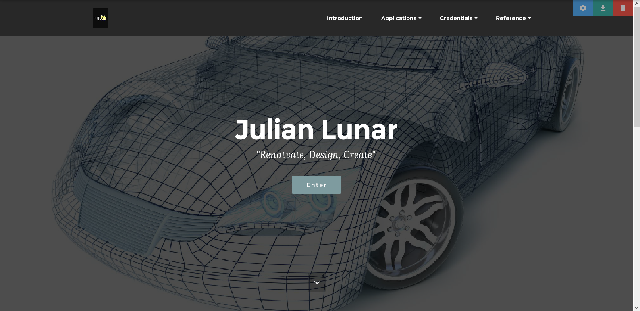
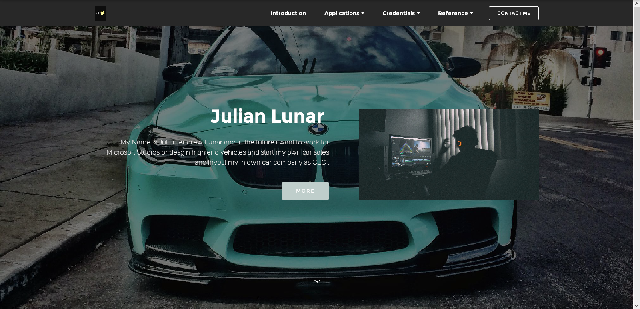
Add files via upload

diff --git a/imagne dragons.html b/imagne dragons.html
@@ -7,17 +7,16 @@
   <meta name="generator" content="Mobirise v3.11.1, mobirise.com">
   <meta name="viewport" content="width=device-width, initial-scale=1">
   <link rel="shortcut icon" href="assets/images/lit-98x128.jpg" type="image/x-icon">
-  <meta name="description" content="Site Maker Description">
-  <title>Contact Me</title>
+  <meta name="description" content="Web Generator Description">
+  <title>Imagine Dragons</title>
   <link rel="stylesheet" href="https://fonts.googleapis.com/css?family=Lora:400,700,400italic,700italic&amp;subset=latin">
   <link rel="stylesheet" href="https://fonts.googleapis.com/css?family=Montserrat:400,700">
   <link rel="stylesheet" href="https://fonts.googleapis.com/css?family=Raleway:100,100i,200,200i,300,300i,400,400i,500,500i,600,600i,700,700i,800,800i,900,900i">
   <link rel="stylesheet" href="assets/bootstrap-material-design-font/css/material.css">
   <link rel="stylesheet" href="assets/tether/tether.min.css">
   <link rel="stylesheet" href="assets/bootstrap/css/bootstrap.min.css">
-  <link rel="stylesheet" href="assets/animate.css/animate.min.css">
   <link rel="stylesheet" href="assets/dropdown/css/style.css">
-  <link rel="stylesheet" href="assets/socicon/css/styles.css">
+  <link rel="stylesheet" href="assets/animate.css/animate.min.css">
   <link rel="stylesheet" href="assets/theme/css/style.css">
   <link rel="stylesheet" href="assets/mobirise/css/mbr-additional.css" type="text/css">
   
@@ -25,7 +24,7 @@
   
 </head>
 <body>
-<section id="ext_menu-2p">
+<section id="ext_menu-2t">
 
     <nav class="navbar navbar-dropdown navbar-fixed-top">
         <div class="container">
@@ -58,80 +57,60 @@
 
 </section>
 
-<section class="engine"><a rel="external" href="https://mobirise.com">Website Creator</a></section><section class="mbr-section mbr-after-navbar" id="form1-2s" style="background-color: rgb(255, 255, 255); padding-top: 120px; padding-bottom: 120px;">
-    
-    <div class="mbr-section mbr-section__container mbr-section__container--middle">
-        <div class="container">
-            <div class="row">
-                <div class="col-xs-12 text-xs-center">
-                    <h3 class="mbr-section-title display-2">CONTACT FORM</h3>
-                    
-                </div>
-            </div>
-        </div>
-    </div>
-    <div class="mbr-section mbr-section-nopadding">
-        <div class="container">
-            <div class="row">
-                <div class="col-xs-12 col-lg-10 col-lg-offset-1" data-form-type="formoid">
+<section class="engine"><a rel="external" href="https://mobirise.com">https://mobirise.com/</a></section><section class="mbr-section mbr-after-navbar" id="msg-box4-2v" style="background-color: rgb(255, 255, 255); padding-top: 120px; padding-bottom: 120px;">
 
-
-                    <div data-form-alert="true">
-                        <div hidden="" data-form-alert-success="true" class="alert alert-form alert-success text-xs-center">Thanks for filling out form!</div>
-                    </div>
-
-
-                    <form action="https://mobirise.com/" method="post" data-form-title="CONTACT FORM">
-
[1 lines of base64/hex data omitted]
-
-                        <div class="row row-sm-offset">
-
-                            <div class="col-xs-12 col-md-4">
-                                <div class="form-group">
-                                    <label class="form-control-label" for="form1-2s-name">Name<span class="form-asterisk">*</span></label>
-                                    <input type="text" class="form-control" name="name" required="" data-form-field="Name" id="form1-2s-name">
-                                </div>
-                            </div>
-
-                            <div class="col-xs-12 col-md-4">
-                                <div class="form-group">
-                                    <label class="form-control-label" for="form1-2s-email">Email<span class="form-asterisk">*</span></label>
-                                    <input type="email" class="form-control" name="email" required="" data-form-field="Email" id="form1-2s-email">
-                                </div>
-                            </div>
-
-                            <div class="col-xs-12 col-md-4">
-                                <div class="form-group">
-                                    <label class="form-control-label" for="form1-2s-phone">Phone</label>
-                                    <input type="tel" class="form-control" name="phone" data-form-field="Phone" id="form1-2s-phone">
-                                </div>
-                            </div>
-
-                        </div>
-
-                        <div class="form-group">
-                            <label class="form-control-label" for="form1-2s-message">Message</label>
-                            <textarea class="form-control" name="message" rows="7" data-form-field="Message" id="form1-2s-message"></textarea>
-                        </div>
-
-                        <div><button type="submit" class="btn btn-info">CONTACT ME</button></div>
-
-                    </form>
-                </div>
-            </div>
-        </div>
-    </div>
-</section>
-
-<section class="mbr-section mbr-section-md-padding" id="social-buttons4-2r" style="background-color: rgb(46, 46, 46); padding-top: 30px; padding-bottom: 30px;">
     
     <div class="container">
         <div class="row">
-            <div class="col-md-8 col-md-offset-2 text-xs-center">
-                <h3 class="mbr-section-title display-2">FOLLOW ME</h3>
-                <div>   <a class="btn btn-social" title="YouTube" target="_blank" href="https://www.youtube.com/channel/UCJnx7VYNEUVOh0UpiyohfZQ"><i class="socicon socicon-youtube"></i></a>       </div>
+            <div class="mbr-table-md-up">
+
+              <div class="mbr-table-cell mbr-right-padding-md-up mbr-valign-top col-md-7 image-size" style="width: 50%;">
+                  <div class="mbr-figure"><iframe class="mbr-embedded-video" src="https://www.youtube.com/embed/Tq7p44IA-1U?rel=0&amp;amp;showinfo=0&amp;autoplay=0&amp;loop=0" width="1280" height="720" frameborder="0" allowfullscreen></iframe></div>
+              </div>
+
+              
+
+
+              <div class="mbr-table-cell col-md-5 text-xs-center text-md-left content-size">
+                  <h3 class="mbr-section-title display-2">Imagine Dragons Compition Video</h3>
+                  
+
+                  <div><a class="btn btn-info" href="https://mobirise.com">MORE</a></div>
+              </div>
+
+
+              
+
             </div>
+        </div>
+    </div>
+
+</section>
+
+<section class="mbr-section mbr-section-md-padding mbr-footer footer1" id="contacts1-2u" style="background-color: rgb(46, 46, 46); padding-top: 30px; padding-bottom: 30px;">
+    
+    <div class="container">
+        <div class="row">
+            <div class="mbr-footer-content col-xs-12 col-md-3">
+                <div><img src="assets/images/lit-128x165.jpg"></div>
+            </div>
+            <div class="mbr-footer-content col-xs-12 col-md-3">
+                <p><strong>Address</strong><br>
+1234 Street Name<br>
+City, AA 99999</p>
+            </div>
+            <div class="mbr-footer-content col-xs-12 col-md-3">
+                <p><font color="#7c7c7c" face="Montserrat, sans-serif" size="3"><span style="letter-spacing: -1px; line-height: 20px;"><strong>Contacts</strong></span></font><br>
+Email: jlunar@miamiartsstudio.com<br>
+Phone: (305)-922-6533<br><br></p>
+            </div>
+            <div class="mbr-footer-content col-xs-12 col-md-3">
+                <p><strong>Links</strong><br>
+<a class="text-white" href="https://mobirise.com/">Website builder</a><br>
+<a class="text-white" href="https://mobirise.com/mobirise-free-win.zip">Download for Windows</a><br>
+<a class="text-white" href="https://mobirise.com/mobirise-free-mac.zip">Download for Mac</a></p>
+            </div>
+
         </div>
     </div>
 </section>
@@ -141,11 +120,10 @@
   <script src="assets/tether/tether.min.js"></script>
   <script src="assets/bootstrap/js/bootstrap.min.js"></script>
   <script src="assets/smooth-scroll/SmoothScroll.js"></script>
-  <script src="assets/viewportChecker/jquery.viewportchecker.js"></script>
   <script src="assets/dropdown/js/script.min.js"></script>
   <script src="assets/touchSwipe/jquery.touchSwipe.min.js"></script>
+  <script src="assets/viewportChecker/jquery.viewportchecker.js"></script>
   <script src="assets/theme/js/script.js"></script>
-  <script src="assets/formoid/formoid.min.js"></script>
   
   
   <input name="animation" type="hidden">

diff --git a/introduction.html b/introduction.html
@@ -46,7 +46,7 @@
                         <div class="hamburger-icon"></div>
                     </button>
 
-                    <ul class="nav-dropdown collapse pull-xs-right nav navbar-nav navbar-toggleable-sm" id="exCollapsingNavbar"><li class="nav-item dropdown"><a class="nav-link link" href="index.html" aria-expanded="false" target="_blank">Introduction</a></li><li class="nav-item dropdown"><a class="nav-link link dropdown-toggle" href="https://mobirise.com/" data-toggle="dropdown-submenu" aria-expanded="false">Applications</a><div class="dropdown-menu"><div class="dropdown"><a class="dropdown-item dropdown-toggle" href="photoshop.html" aria-expanded="false" data-toggle="dropdown-submenu">Adobe Photoshop</a><div class="dropdown-menu dropdown-submenu"><a class="dropdown-item" href="masterpiece.html">Masterpiece</a></div></div><a class="dropdown-item" href="illustrator.html" aria-expanded="false">Adobe Illustrator</a><a class="dropdown-item" href="#" aria-expanded="false">Adobe Premier</a><a class="dropdown-item" href="#" aria-expanded="false">Adobe Animte</a><div class="dropdown"><a class="dropdown-item dropdown-toggle" href="#" data-toggle="dropdown-submenu" aria-expanded="false">MIcrosoft Office</a><div class="dropdown-menu dropdown-submenu"><a class="dropdown-item" href="#">PowerPoint</a><div class="dropdown"><a class="dropdown-item dropdown-toggle" href="#" data-toggle="dropdown-submenu" aria-expanded="false">Word</a><div class="dropdown-menu dropdown-submenu"><a class="dropdown-item" href="https://julianlunar.github.io/Julian Lunar Discuss IT Topic 6.pdf" target="_blank">Disscuss It 6<br></a></div></div><a class="dropdown-item" href="#">Exel</a><a class="dropdown-item" href="#"></a></div></div></div></li><li class="nav-item dropdown"><a class="nav-link link dropdown-toggle" href="https://mobirise.com/" data-toggle="dropdown-submenu" aria-expanded="false">Credentials</a><div class="dropdown-menu"><a class="dropdown-item" href="#">IC3</a><a class="dropdown-item" href="#">Adobe Illustrator</a><a class="dropdown-item" href="#">Adobe Photoshop</a><a class="dropdown-item" href="#">Gmetrix</a></div></li><li class="nav-item dropdown"><a class="nav-link link dropdown-toggle" href="https://mobirise.com/" data-toggle="dropdown-submenu" aria-expanded="false">Reference</a><div class="dropdown-menu"><a class="dropdown-item" href="#">Teachers</a></div></li><li class="nav-item nav-btn"><a class="nav-link btn btn-white-outline btn-white" href="conatct page.html" target="_blank">CONTACT ME</a></li></ul>
+                    <ul class="nav-dropdown collapse pull-xs-right nav navbar-nav navbar-toggleable-sm" id="exCollapsingNavbar"><li class="nav-item dropdown"><a class="nav-link link" href="index.html" aria-expanded="false" target="_blank">Introduction</a></li><li class="nav-item dropdown open"><a class="nav-link link dropdown-toggle" href="https://mobirise.com/" data-toggle="dropdown-submenu" aria-expanded="true">Applications</a><div class="dropdown-menu"><div class="dropdown"><a class="dropdown-item dropdown-toggle" href="photoshop.html" aria-expanded="false" data-toggle="dropdown-submenu">Adobe Photoshop</a><div class="dropdown-menu dropdown-submenu"><a class="dropdown-item" href="masterpiece.html">Masterpiece</a></div></div><a class="dropdown-item" href="illustrator.html" aria-expanded="false">Adobe Illustrator</a><div class="dropdown open"><a class="dropdown-item dropdown-toggle" href="#" aria-expanded="true" data-toggle="dropdown-submenu">Adobe Premier</a><div class="dropdown-menu dropdown-submenu"><a class="dropdown-item" href="imagne dragons.html">Imagine Dragons</a></div></div><a class="dropdown-item" href="#" aria-expanded="false">Adobe Animte</a><div class="dropdown"><a class="dropdown-item dropdown-toggle" href="#" data-toggle="dropdown-submenu" aria-expanded="false">MIcrosoft Office</a><div class="dropdown-menu dropdown-submenu"><a class="dropdown-item" href="#">PowerPoint</a><div class="dropdown"><a class="dropdown-item dropdown-toggle" href="#" data-toggle="dropdown-submenu" aria-expanded="false">Word</a><div class="dropdown-menu dropdown-submenu"><a class="dropdown-item" href="https://julianlunar.github.io/Julian Lunar Discuss IT Topic 6.pdf" target="_blank">Disscuss It 6<br></a></div></div><a class="dropdown-item" href="#">Exel</a><a class="dropdown-item" href="#"></a></div></div></div></li><li class="nav-item dropdown"><a class="nav-link link dropdown-toggle" href="https://mobirise.com/" data-toggle="dropdown-submenu" aria-expanded="false">Credentials</a><div class="dropdown-menu"><a class="dropdown-item" href="#">IC3</a><a class="dropdown-item" href="#">Adobe Illustrator</a><a class="dropdown-item" href="#">Adobe Photoshop</a><a class="dropdown-item" href="#">Gmetrix</a></div></li><li class="nav-item dropdown"><a class="nav-link link dropdown-toggle" href="https://mobirise.com/" data-toggle="dropdown-submenu" aria-expanded="false">Reference</a><div class="dropdown-menu"><a class="dropdown-item" href="#">Teachers</a></div></li><li class="nav-item nav-btn"><a class="nav-link btn btn-white-outline btn-white" href="conatct page.html" target="_blank">CONTACT ME</a></li></ul>
                     <button hidden="" class="navbar-toggler navbar-close" type="button" data-toggle="collapse" data-target="#exCollapsingNavbar">
                         <div class="close-icon"></div>
                     </button>
@@ -59,7 +59,7 @@
 
 </section>
 
-<section class="engine"><a rel="external" href="https://mobirise.com">Web Maker</a></section><section class="mbr-section mbr-section-hero mbr-section-full header2 mbr-parallax-background mbr-after-navbar" id="header2-1o" style="background-image: url(assets/images/rdb-la-squeezed-660-hp-from-this-wicked-bmw-m5-photo-gallery-2000x2000.jpg);">
+<section class="engine"><a rel="external" href="https://mobirise.com">Website Maker</a></section><section class="mbr-section mbr-section-hero mbr-section-full header2 mbr-parallax-background mbr-after-navbar" id="header2-1o" style="background-image: url(assets/images/rdb-la-squeezed-660-hp-from-this-wicked-bmw-m5-photo-gallery-2000x2000.jpg);">
 
     <div class="mbr-overlay" style="opacity: 0.5; background-color: rgb(0, 0, 0);">
     </div>
@@ -86,7 +86,7 @@
 
                         </div>
                         <div class="mbr-table-cell mbr-valign-top mbr-left-padding-md-up col-md-7 image-size" style="width: 46%;">
-                            <div class="mbr-figure"><img src="assets/images/coworkers.jpg"></div>
+                            <div class="mbr-figure"><img src="assets/images/mbr-1400x708.jpg"></div>
                         </div>
 
                     </div>

diff --git a/masterpiece.html b/masterpiece.html
@@ -44,7 +44,7 @@
                         <div class="hamburger-icon"></div>
                     </button>
 
-                    <ul class="nav-dropdown collapse pull-xs-right nav navbar-nav navbar-toggleable-sm" id="exCollapsingNavbar"><li class="nav-item dropdown"><a class="nav-link link" href="index.html" aria-expanded="false" target="_blank">Introduction</a></li><li class="nav-item dropdown"><a class="nav-link link dropdown-toggle" href="https://mobirise.com/" data-toggle="dropdown-submenu" aria-expanded="false">Applications</a><div class="dropdown-menu"><div class="dropdown"><a class="dropdown-item dropdown-toggle" href="photoshop.html" aria-expanded="false" data-toggle="dropdown-submenu">Adobe Photoshop</a><div class="dropdown-menu dropdown-submenu"><a class="dropdown-item" href="masterpiece.html">Masterpiece</a></div></div><a class="dropdown-item" href="illustrator.html" aria-expanded="false">Adobe Illustrator</a><a class="dropdown-item" href="#" aria-expanded="false">Adobe Premier</a><a class="dropdown-item" href="#" aria-expanded="false">Adobe Animte</a><div class="dropdown"><a class="dropdown-item dropdown-toggle" href="#" data-toggle="dropdown-submenu" aria-expanded="false">MIcrosoft Office</a><div class="dropdown-menu dropdown-submenu"><a class="dropdown-item" href="#">PowerPoint</a><div class="dropdown"><a class="dropdown-item dropdown-toggle" href="#" data-toggle="dropdown-submenu" aria-expanded="false">Word</a><div class="dropdown-menu dropdown-submenu"><a class="dropdown-item" href="https://julianlunar.github.io/Julian Lunar Discuss IT Topic 6.pdf" target="_blank">Disscuss It 6<br></a></div></div><a class="dropdown-item" href="#">Exel</a><a class="dropdown-item" href="#"></a></div></div></div></li><li class="nav-item dropdown"><a class="nav-link link dropdown-toggle" href="https://mobirise.com/" data-toggle="dropdown-submenu" aria-expanded="false">Credentials</a><div class="dropdown-menu"><a class="dropdown-item" href="#">IC3</a><a class="dropdown-item" href="#">Adobe Illustrator</a><a class="dropdown-item" href="#">Adobe Photoshop</a><a class="dropdown-item" href="#">Gmetrix</a></div></li><li class="nav-item dropdown"><a class="nav-link link dropdown-toggle" href="https://mobirise.com/" data-toggle="dropdown-submenu" aria-expanded="false">Reference</a><div class="dropdown-menu"><a class="dropdown-item" href="#">Teachers</a></div></li><li class="nav-item nav-btn"><a class="nav-link btn btn-white-outline btn-white" href="conatct page.html" target="_blank">CONTACT ME</a></li></ul>
+                    <ul class="nav-dropdown collapse pull-xs-right nav navbar-nav navbar-toggleable-sm" id="exCollapsingNavbar"><li class="nav-item dropdown"><a class="nav-link link" href="index.html" aria-expanded="false" target="_blank">Introduction</a></li><li class="nav-item dropdown open"><a class="nav-link link dropdown-toggle" href="https://mobirise.com/" data-toggle="dropdown-submenu" aria-expanded="true">Applications</a><div class="dropdown-menu"><div class="dropdown"><a class="dropdown-item dropdown-toggle" href="photoshop.html" aria-expanded="false" data-toggle="dropdown-submenu">Adobe Photoshop</a><div class="dropdown-menu dropdown-submenu"><a class="dropdown-item" href="masterpiece.html">Masterpiece</a></div></div><a class="dropdown-item" href="illustrator.html" aria-expanded="false">Adobe Illustrator</a><div class="dropdown open"><a class="dropdown-item dropdown-toggle" href="#" aria-expanded="true" data-toggle="dropdown-submenu">Adobe Premier</a><div class="dropdown-menu dropdown-submenu"><a class="dropdown-item" href="imagne dragons.html">Imagine Dragons</a></div></div><a class="dropdown-item" href="#" aria-expanded="false">Adobe Animte</a><div class="dropdown"><a class="dropdown-item dropdown-toggle" href="#" data-toggle="dropdown-submenu" aria-expanded="false">MIcrosoft Office</a><div class="dropdown-menu dropdown-submenu"><a class="dropdown-item" href="#">PowerPoint</a><div class="dropdown"><a class="dropdown-item dropdown-toggle" href="#" data-toggle="dropdown-submenu" aria-expanded="false">Word</a><div class="dropdown-menu dropdown-submenu"><a class="dropdown-item" href="https://julianlunar.github.io/Julian Lunar Discuss IT Topic 6.pdf" target="_blank">Disscuss It 6<br></a></div></div><a class="dropdown-item" href="#">Exel</a><a class="dropdown-item" href="#"></a></div></div></div></li><li class="nav-item dropdown"><a class="nav-link link dropdown-toggle" href="https://mobirise.com/" data-toggle="dropdown-submenu" aria-expanded="false">Credentials</a><div class="dropdown-menu"><a class="dropdown-item" href="#">IC3</a><a class="dropdown-item" href="#">Adobe Illustrator</a><a class="dropdown-item" href="#">Adobe Photoshop</a><a class="dropdown-item" href="#">Gmetrix</a></div></li><li class="nav-item dropdown"><a class="nav-link link dropdown-toggle" href="https://mobirise.com/" data-toggle="dropdown-submenu" aria-expanded="false">Reference</a><div class="dropdown-menu"><a class="dropdown-item" href="#">Teachers</a></div></li><li class="nav-item nav-btn"><a class="nav-link btn btn-white-outline btn-white" href="conatct page.html" target="_blank">CONTACT ME</a></li></ul>
                     <button hidden="" class="navbar-toggler navbar-close" type="button" data-toggle="collapse" data-target="#exCollapsingNavbar">
                         <div class="close-icon"></div>
                     </button>
@@ -57,7 +57,7 @@
 
 </section>
 
-<section class="engine"><a rel="external" href="https://mobirise.com">https://mobirise.com/</a></section><section class="mbr-slider mbr-section mbr-section__container carousel slide mbr-section-nopadding mbr-after-navbar" data-ride="carousel" data-keyboard="false" data-wrap="true" data-pause="false" data-interval="5000" id="slider3-2a" style="background-color: rgb(0, 0, 0);">
+<section class="engine"><a rel="external" href="https://mobirise.com">Mobirise Website Creator</a></section><section class="mbr-slider mbr-section mbr-section__container carousel slide mbr-section-nopadding mbr-after-navbar" data-ride="carousel" data-keyboard="false" data-wrap="true" data-pause="false" data-interval="5000" id="slider3-2a" style="background-color: rgb(0, 0, 0);">
     <div class=" container boxed-slider" style="padding-top: 120px; padding-bottom: 120px;">
         <div>
             <div>

diff --git a/index.html b/index.html
@@ -47,7 +47,7 @@
                         <div class="hamburger-icon"></div>
                     </button>
 
-                    <ul class="nav-dropdown collapse pull-xs-right nav navbar-nav navbar-toggleable-sm" id="exCollapsingNavbar"><li class="nav-item dropdown"><a class="nav-link link" href="index.html" aria-expanded="false" target="_blank">Introduction</a></li><li class="nav-item dropdown"><a class="nav-link link dropdown-toggle" href="https://mobirise.com/" data-toggle="dropdown-submenu" aria-expanded="false">Applications</a><div class="dropdown-menu"><div class="dropdown"><a class="dropdown-item dropdown-toggle" href="photoshop.html" aria-expanded="false" data-toggle="dropdown-submenu">Adobe Photoshop</a><div class="dropdown-menu dropdown-submenu"><a class="dropdown-item" href="masterpiece.html">Masterpiece</a></div></div><a class="dropdown-item" href="illustrator.html" aria-expanded="false">Adobe Illustrator</a><a class="dropdown-item" href="#" aria-expanded="false">Adobe Premier</a><a class="dropdown-item" href="#" aria-expanded="false">Adobe Animte</a><div class="dropdown"><a class="dropdown-item dropdown-toggle" href="#" data-toggle="dropdown-submenu" aria-expanded="false">MIcrosoft Office</a><div class="dropdown-menu dropdown-submenu"><a class="dropdown-item" href="#">PowerPoint</a><div class="dropdown"><a class="dropdown-item dropdown-toggle" href="#" data-toggle="dropdown-submenu" aria-expanded="false">Word</a><div class="dropdown-menu dropdown-submenu"><a class="dropdown-item" href="https://julianlunar.github.io/Julian Lunar Discuss IT Topic 6.pdf" target="_blank">Disscuss It 6<br></a></div></div><a class="dropdown-item" href="#">Exel</a><a class="dropdown-item" href="#"></a></div></div></div></li><li class="nav-item dropdown"><a class="nav-link link dropdown-toggle" href="https://mobirise.com/" data-toggle="dropdown-submenu" aria-expanded="false">Credentials</a><div class="dropdown-menu"><a class="dropdown-item" href="#">IC3</a><a class="dropdown-item" href="#">Adobe Illustrator</a><a class="dropdown-item" href="#">Adobe Photoshop</a><a class="dropdown-item" href="#">Gmetrix</a></div></li><li class="nav-item dropdown"><a class="nav-link link dropdown-toggle" href="https://mobirise.com/" data-toggle="dropdown-submenu" aria-expanded="false">Reference</a><div class="dropdown-menu"><a class="dropdown-item" href="#">Teachers</a></div></li><li class="nav-item nav-btn"><a class="nav-link btn btn-white-outline btn-white" href="conatct page.html" target="_blank">CONTACT ME</a></li></ul>
+                    <ul class="nav-dropdown collapse pull-xs-right nav navbar-nav navbar-toggleable-sm" id="exCollapsingNavbar"><li class="nav-item dropdown"><a class="nav-link link" href="index.html" aria-expanded="false" target="_blank">Introduction</a></li><li class="nav-item dropdown open"><a class="nav-link link dropdown-toggle" href="https://mobirise.com/" data-toggle="dropdown-submenu" aria-expanded="true">Applications</a><div class="dropdown-menu"><div class="dropdown"><a class="dropdown-item dropdown-toggle" href="photoshop.html" aria-expanded="false" data-toggle="dropdown-submenu">Adobe Photoshop</a><div class="dropdown-menu dropdown-submenu"><a class="dropdown-item" href="masterpiece.html">Masterpiece</a></div></div><a class="dropdown-item" href="illustrator.html" aria-expanded="false">Adobe Illustrator</a><div class="dropdown open"><a class="dropdown-item dropdown-toggle" href="#" aria-expanded="true" data-toggle="dropdown-submenu">Adobe Premier</a><div class="dropdown-menu dropdown-submenu"><a class="dropdown-item" href="imagne dragons.html">Imagine Dragons</a></div></div><a class="dropdown-item" href="#" aria-expanded="false">Adobe Animte</a><div class="dropdown"><a class="dropdown-item dropdown-toggle" href="#" data-toggle="dropdown-submenu" aria-expanded="false">MIcrosoft Office</a><div class="dropdown-menu dropdown-submenu"><a class="dropdown-item" href="#">PowerPoint</a><div class="dropdown"><a class="dropdown-item dropdown-toggle" href="#" data-toggle="dropdown-submenu" aria-expanded="false">Word</a><div class="dropdown-menu dropdown-submenu"><a class="dropdown-item" href="https://julianlunar.github.io/Julian Lunar Discuss IT Topic 6.pdf" target="_blank">Disscuss It 6<br></a></div></div><a class="dropdown-item" href="#">Exel</a><a class="dropdown-item" href="#"></a></div></div></div></li><li class="nav-item dropdown"><a class="nav-link link dropdown-toggle" href="https://mobirise.com/" data-toggle="dropdown-submenu" aria-expanded="false">Credentials</a><div class="dropdown-menu"><a class="dropdown-item" href="#">IC3</a><a class="dropdown-item" href="#">Adobe Illustrator</a><a class="dropdown-item" href="#">Adobe Photoshop</a><a class="dropdown-item" href="#">Gmetrix</a></div></li><li class="nav-item dropdown"><a class="nav-link link dropdown-toggle" href="https://mobirise.com/" data-toggle="dropdown-submenu" aria-expanded="false">Reference</a><div class="dropdown-menu"><a class="dropdown-item" href="#">Teachers</a></div></li><li class="nav-item nav-btn"><a class="nav-link btn btn-white-outline btn-white" href="conatct page.html" target="_blank">CONTACT ME</a></li></ul>
                     <button hidden="" class="navbar-toggler navbar-close" type="button" data-toggle="collapse" data-target="#exCollapsingNavbar">
                         <div class="close-icon"></div>
                     </button>
@@ -60,7 +60,7 @@
 
 </section>
 
-<section class="engine"><a rel="external" href="https://mobirise.com">Website Builder</a></section><section class="mbr-section mbr-section-hero mbr-section-full mbr-parallax-background mbr-section-with-arrow mbr-after-navbar" id="header1-2b" style="background-image: url(assets/images/cars-of-tmw-2000x1332.jpg);">
+<section class="engine"><a rel="external" href="https://mobirise.com">Mobirise</a></section><section class="mbr-section mbr-section-hero mbr-section-full mbr-parallax-background mbr-section-with-arrow mbr-after-navbar" id="header1-2b" style="background-image: url(assets/images/cars-of-tmw-2000x1332.jpg);">
 
     <div class="mbr-overlay" style="opacity: 0.7; background-color: rgb(0, 0, 0);"></div>
 

diff --git a/illustrator.html b/illustrator.html
@@ -46,7 +46,7 @@
                         <div class="hamburger-icon"></div>
                     </button>
 
-                    <ul class="nav-dropdown collapse pull-xs-right nav navbar-nav navbar-toggleable-sm" id="exCollapsingNavbar"><li class="nav-item dropdown"><a class="nav-link link" href="index.html" aria-expanded="false" target="_blank">Introduction</a></li><li class="nav-item dropdown"><a class="nav-link link dropdown-toggle" href="https://mobirise.com/" data-toggle="dropdown-submenu" aria-expanded="false">Applications</a><div class="dropdown-menu"><div class="dropdown"><a class="dropdown-item dropdown-toggle" href="photoshop.html" aria-expanded="false" data-toggle="dropdown-submenu">Adobe Photoshop</a><div class="dropdown-menu dropdown-submenu"><a class="dropdown-item" href="masterpiece.html">Masterpiece</a></div></div><a class="dropdown-item" href="illustrator.html" aria-expanded="false">Adobe Illustrator</a><a class="dropdown-item" href="#" aria-expanded="false">Adobe Premier</a><a class="dropdown-item" href="#" aria-expanded="false">Adobe Animte</a><div class="dropdown"><a class="dropdown-item dropdown-toggle" href="#" data-toggle="dropdown-submenu" aria-expanded="false">MIcrosoft Office</a><div class="dropdown-menu dropdown-submenu"><a class="dropdown-item" href="#">PowerPoint</a><div class="dropdown"><a class="dropdown-item dropdown-toggle" href="#" data-toggle="dropdown-submenu" aria-expanded="false">Word</a><div class="dropdown-menu dropdown-submenu"><a class="dropdown-item" href="https://julianlunar.github.io/Julian Lunar Discuss IT Topic 6.pdf" target="_blank">Disscuss It 6<br></a></div></div><a class="dropdown-item" href="#">Exel</a><a class="dropdown-item" href="#"></a></div></div></div></li><li class="nav-item dropdown"><a class="nav-link link dropdown-toggle" href="https://mobirise.com/" data-toggle="dropdown-submenu" aria-expanded="false">Credentials</a><div class="dropdown-menu"><a class="dropdown-item" href="#">IC3</a><a class="dropdown-item" href="#">Adobe Illustrator</a><a class="dropdown-item" href="#">Adobe Photoshop</a><a class="dropdown-item" href="#">Gmetrix</a></div></li><li class="nav-item dropdown"><a class="nav-link link dropdown-toggle" href="https://mobirise.com/" data-toggle="dropdown-submenu" aria-expanded="false">Reference</a><div class="dropdown-menu"><a class="dropdown-item" href="#">Teachers</a></div></li><li class="nav-item nav-btn"><a class="nav-link btn btn-white-outline btn-white" href="conatct page.html" target="_blank">CONTACT ME</a></li></ul>
+                    <ul class="nav-dropdown collapse pull-xs-right nav navbar-nav navbar-toggleable-sm" id="exCollapsingNavbar"><li class="nav-item dropdown"><a class="nav-link link" href="index.html" aria-expanded="false" target="_blank">Introduction</a></li><li class="nav-item dropdown open"><a class="nav-link link dropdown-toggle" href="https://mobirise.com/" data-toggle="dropdown-submenu" aria-expanded="true">Applications</a><div class="dropdown-menu"><div class="dropdown"><a class="dropdown-item dropdown-toggle" href="photoshop.html" aria-expanded="false" data-toggle="dropdown-submenu">Adobe Photoshop</a><div class="dropdown-menu dropdown-submenu"><a class="dropdown-item" href="masterpiece.html">Masterpiece</a></div></div><a class="dropdown-item" href="illustrator.html" aria-expanded="false">Adobe Illustrator</a><div class="dropdown open"><a class="dropdown-item dropdown-toggle" href="#" aria-expanded="true" data-toggle="dropdown-submenu">Adobe Premier</a><div class="dropdown-menu dropdown-submenu"><a class="dropdown-item" href="imagne dragons.html">Imagine Dragons</a></div></div><a class="dropdown-item" href="#" aria-expanded="false">Adobe Animte</a><div class="dropdown"><a class="dropdown-item dropdown-toggle" href="#" data-toggle="dropdown-submenu" aria-expanded="false">MIcrosoft Office</a><div class="dropdown-menu dropdown-submenu"><a class="dropdown-item" href="#">PowerPoint</a><div class="dropdown"><a class="dropdown-item dropdown-toggle" href="#" data-toggle="dropdown-submenu" aria-expanded="false">Word</a><div class="dropdown-menu dropdown-submenu"><a class="dropdown-item" href="https://julianlunar.github.io/Julian Lunar Discuss IT Topic 6.pdf" target="_blank">Disscuss It 6<br></a></div></div><a class="dropdown-item" href="#">Exel</a><a class="dropdown-item" href="#"></a></div></div></div></li><li class="nav-item dropdown"><a class="nav-link link dropdown-toggle" href="https://mobirise.com/" data-toggle="dropdown-submenu" aria-expanded="false">Credentials</a><div class="dropdown-menu"><a class="dropdown-item" href="#">IC3</a><a class="dropdown-item" href="#">Adobe Illustrator</a><a class="dropdown-item" href="#">Adobe Photoshop</a><a class="dropdown-item" href="#">Gmetrix</a></div></li><li class="nav-item dropdown"><a class="nav-link link dropdown-toggle" href="https://mobirise.com/" data-toggle="dropdown-submenu" aria-expanded="false">Reference</a><div class="dropdown-menu"><a class="dropdown-item" href="#">Teachers</a></div></li><li class="nav-item nav-btn"><a class="nav-link btn btn-white-outline btn-white" href="conatct page.html" target="_blank">CONTACT ME</a></li></ul>
                     <button hidden="" class="navbar-toggler navbar-close" type="button" data-toggle="collapse" data-target="#exCollapsingNavbar">
                         <div class="close-icon"></div>
                     </button>
@@ -59,7 +59,7 @@
 
 </section>
 
-<section class="engine"><a rel="external" href="https://mobirise.com">Site Builder</a></section><section class="mbr-gallery mbr-section mbr-section-nopadding mbr-slider-carousel mbr-after-navbar" id="gallery3-1m" data-filter="false" style="background-color: rgb(0, 0, 0); padding-top: 1.5rem; padding-bottom: 1.5rem;">
+<section class="engine"><a rel="external" href="https://mobirise.com">https://mobirise.com/</a></section><section class="mbr-gallery mbr-section mbr-section-nopadding mbr-slider-carousel mbr-after-navbar" id="gallery3-1m" data-filter="false" style="background-color: rgb(0, 0, 0); padding-top: 1.5rem; padding-bottom: 1.5rem;">
     <!-- Filter -->
     
 

diff --git a/photoshop.html b/photoshop.html
@@ -46,7 +46,7 @@
                         <div class="hamburger-icon"></div>
                     </button>
 
-                    <ul class="nav-dropdown collapse pull-xs-right nav navbar-nav navbar-toggleable-sm" id="exCollapsingNavbar"><li class="nav-item dropdown"><a class="nav-link link" href="index.html" aria-expanded="false" target="_blank">Introduction</a></li><li class="nav-item dropdown"><a class="nav-link link dropdown-toggle" href="https://mobirise.com/" data-toggle="dropdown-submenu" aria-expanded="false">Applications</a><div class="dropdown-menu"><div class="dropdown"><a class="dropdown-item dropdown-toggle" href="photoshop.html" aria-expanded="false" data-toggle="dropdown-submenu">Adobe Photoshop</a><div class="dropdown-menu dropdown-submenu"><a class="dropdown-item" href="masterpiece.html">Masterpiece</a></div></div><a class="dropdown-item" href="illustrator.html" aria-expanded="false">Adobe Illustrator</a><a class="dropdown-item" href="#" aria-expanded="false">Adobe Premier</a><a class="dropdown-item" href="#" aria-expanded="false">Adobe Animte</a><div class="dropdown"><a class="dropdown-item dropdown-toggle" href="#" data-toggle="dropdown-submenu" aria-expanded="false">MIcrosoft Office</a><div class="dropdown-menu dropdown-submenu"><a class="dropdown-item" href="#">PowerPoint</a><div class="dropdown"><a class="dropdown-item dropdown-toggle" href="#" data-toggle="dropdown-submenu" aria-expanded="false">Word</a><div class="dropdown-menu dropdown-submenu"><a class="dropdown-item" href="https://julianlunar.github.io/Julian Lunar Discuss IT Topic 6.pdf" target="_blank">Disscuss It 6<br></a></div></div><a class="dropdown-item" href="#">Exel</a><a class="dropdown-item" href="#"></a></div></div></div></li><li class="nav-item dropdown"><a class="nav-link link dropdown-toggle" href="https://mobirise.com/" data-toggle="dropdown-submenu" aria-expanded="false">Credentials</a><div class="dropdown-menu"><a class="dropdown-item" href="#">IC3</a><a class="dropdown-item" href="#">Adobe Illustrator</a><a class="dropdown-item" href="#">Adobe Photoshop</a><a class="dropdown-item" href="#">Gmetrix</a></div></li><li class="nav-item dropdown"><a class="nav-link link dropdown-toggle" href="https://mobirise.com/" data-toggle="dropdown-submenu" aria-expanded="false">Reference</a><div class="dropdown-menu"><a class="dropdown-item" href="#">Teachers</a></div></li><li class="nav-item nav-btn"><a class="nav-link btn btn-white-outline btn-white" href="conatct page.html" target="_blank">CONTACT ME</a></li></ul>
+                    <ul class="nav-dropdown collapse pull-xs-right nav navbar-nav navbar-toggleable-sm" id="exCollapsingNavbar"><li class="nav-item dropdown"><a class="nav-link link" href="index.html" aria-expanded="false" target="_blank">Introduction</a></li><li class="nav-item dropdown open"><a class="nav-link link dropdown-toggle" href="https://mobirise.com/" data-toggle="dropdown-submenu" aria-expanded="true">Applications</a><div class="dropdown-menu"><div class="dropdown"><a class="dropdown-item dropdown-toggle" href="photoshop.html" aria-expanded="false" data-toggle="dropdown-submenu">Adobe Photoshop</a><div class="dropdown-menu dropdown-submenu"><a class="dropdown-item" href="masterpiece.html">Masterpiece</a></div></div><a class="dropdown-item" href="illustrator.html" aria-expanded="false">Adobe Illustrator</a><div class="dropdown open"><a class="dropdown-item dropdown-toggle" href="#" aria-expanded="true" data-toggle="dropdown-submenu">Adobe Premier</a><div class="dropdown-menu dropdown-submenu"><a class="dropdown-item" href="imagne dragons.html">Imagine Dragons</a></div></div><a class="dropdown-item" href="#" aria-expanded="false">Adobe Animte</a><div class="dropdown"><a class="dropdown-item dropdown-toggle" href="#" data-toggle="dropdown-submenu" aria-expanded="false">MIcrosoft Office</a><div class="dropdown-menu dropdown-submenu"><a class="dropdown-item" href="#">PowerPoint</a><div class="dropdown"><a class="dropdown-item dropdown-toggle" href="#" data-toggle="dropdown-submenu" aria-expanded="false">Word</a><div class="dropdown-menu dropdown-submenu"><a class="dropdown-item" href="https://julianlunar.github.io/Julian Lunar Discuss IT Topic 6.pdf" target="_blank">Disscuss It 6<br></a></div></div><a class="dropdown-item" href="#">Exel</a><a class="dropdown-item" href="#"></a></div></div></div></li><li class="nav-item dropdown"><a class="nav-link link dropdown-toggle" href="https://mobirise.com/" data-toggle="dropdown-submenu" aria-expanded="false">Credentials</a><div class="dropdown-menu"><a class="dropdown-item" href="#">IC3</a><a class="dropdown-item" href="#">Adobe Illustrator</a><a class="dropdown-item" href="#">Adobe Photoshop</a><a class="dropdown-item" href="#">Gmetrix</a></div></li><li class="nav-item dropdown"><a class="nav-link link dropdown-toggle" href="https://mobirise.com/" data-toggle="dropdown-submenu" aria-expanded="false">Reference</a><div class="dropdown-menu"><a class="dropdown-item" href="#">Teachers</a></div></li><li class="nav-item nav-btn"><a class="nav-link btn btn-white-outline btn-white" href="conatct page.html" target="_blank">CONTACT ME</a></li></ul>
                     <button hidden="" class="navbar-toggler navbar-close" type="button" data-toggle="collapse" data-target="#exCollapsingNavbar">
                         <div class="close-icon"></div>
                     </button>
@@ -59,7 +59,7 @@
 
 </section>
 
-<section class="engine"><a rel="external" href="https://mobirise.com">Web Site Builder</a></section><section class="mbr-gallery mbr-section mbr-section-nopadding mbr-slider-carousel mbr-after-navbar" id="gallery3-1n" data-filter="false" style="background-color: rgb(0, 0, 0); padding-top: 1.5rem; padding-bottom: 1.5rem;">
+<section class="engine"><a rel="external" href="https://mobirise.com">Mobirise</a></section><section class="mbr-gallery mbr-section mbr-section-nopadding mbr-slider-carousel mbr-after-navbar" id="gallery3-1n" data-filter="false" style="background-color: rgb(0, 0, 0); padding-top: 1.5rem; padding-bottom: 1.5rem;">
     <!-- Filter -->
     
 
